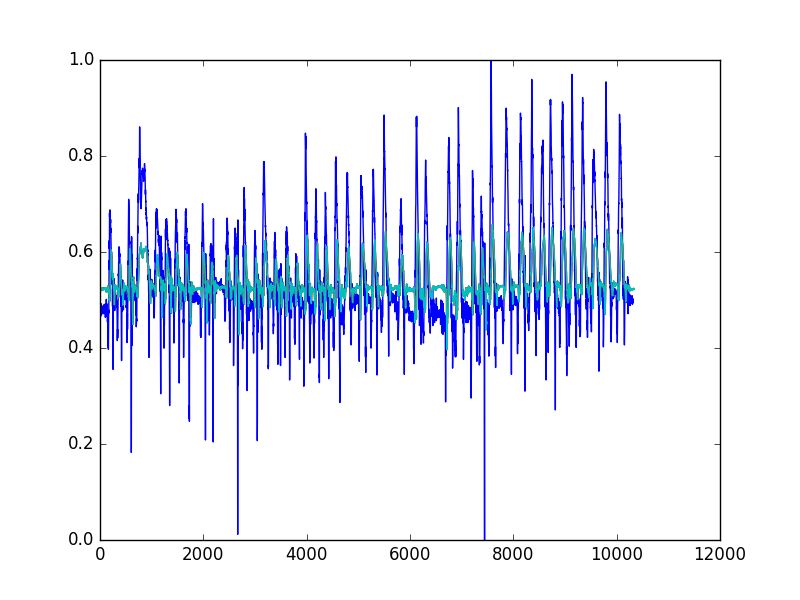
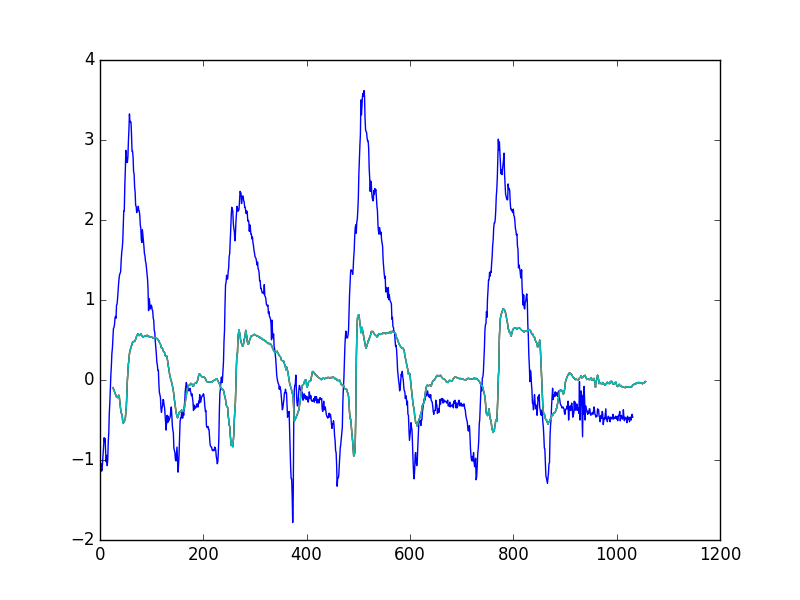
Using zero mean preprocessing as opposed to range preprocessing now

diff --git a/main.py b/main.py
@@ -5,29 +5,65 @@ from keras.metrics import mean_squared_error
 from keras.models import Sequential
 from numpy import genfromtxt
 import matplotlib.pyplot as plt
+from sklearn import preprocessing
 from sklearn.preprocessing import MinMaxScaler
 
 data = genfromtxt('data/layton_wild', delimiter=',')
 
 data = data[1:]
 
-scaler = MinMaxScaler(feature_range=(-1, 1))
-
 emg = data[::2, 1:2]
-emg = scaler.fit_transform(emg)
+# gives data zero mean
+emg = preprocessing.scale(emg)
 
 acc = data[1::2, 1:-1]
-acc = scaler.fit_transform(acc)
+# gives data zero mean
+acc = preprocessing.scale(acc)
 
 
-# plt.plot(emg)
-# plt.show()
+def plotWindow(target, predict, offset):
+    """
+    Shows plot in window
+    """ \
+        # just plot z axis for now
+    target = target[:, 2:3]
+    zPredict = predict[:, 2:3]
+
+    predictPlot = numpy.empty_like(acc)
+    predictPlot[:, :] = numpy.nan
+    predictPlot[offset:len(zPredict) + offset, :] = zPredict
+
+    # plot baseline and predictions
+    plt.plot(target, label='actual')
+    plt.plot(predictPlot, label='predict')
+
+    plt.show()
+
+
+def plotFile(target, predict, offset):
+    """
+    Writes plot to image file. Just showing a small part of the x-axis so it's big enough to see.
+    """
+
+    cutoffFrac = 0.9
+    cutoffNum = int(cutoffFrac * len(target))
+
+    # just plot z axis for now
+    target = target[cutoffNum:, 2:3]
+    zPredict = predict[cutoffNum:, 2:3]
+
+    predictPlot = numpy.empty_like(acc)
+    predictPlot[:, :] = numpy.nan
+    predictPlot[offset:len(zPredict) + offset, :] = zPredict
+
+    # plot baseline and predictions
+    plt.plot(target, label='actual')
+    plt.plot(predictPlot, label='predict')
+
+    plt.savefig('graph.png')
 
 
 def recurrent_model():
-    # Epoch 30000/30000
-    # 0s - loss: 0.6794 - acc: 0.5000
-
     features = 4
     output_dim = 3
     look_back = 25
@@ -40,12 +76,6 @@ def recurrent_model():
             X_rec[i, j, :] = numpy.append(acc[j + i], emg[j + i])
         Y_rec[i] = acc[i + look_back][:]
 
-    # train_samples = int(testcases * 0.66)
-    # X_rec_train = X_rec[:train_samples, :, :]
-    # X_rec_test = X_rec[train_samples:, :, :]
-    # Y_rec_train = Y_rec[:train_samples]
-    # Y_rec_test = Y_rec[train_samples:]
-
     model = Sequential()
     model.add(LSTM(output_dim, input_dim=features))
     # Compile model
@@ -55,30 +85,9 @@ def recurrent_model():
 
     # make predictions
     predict = model.predict(X_rec)
-    # invert predictions
-    # predict = scaler.inverse_transform(predict)
-    # Y = scaler.inverse_transform([Y_rec])
-    # predict = scaler.inverse_transform(predict)
-    # Y = scaler.inverse_transform([Y])
-    # calculate root mean squared error
-    # trainScore = numpy.sqrt(mean_squared_error(Y_rec[0], predict[:, 0]))
-    # print('Train Score: %.2f RMSE' % (trainScore))
 
-    # shift train predictions for plotting
-    target = Y_rec[:, 2:3]
-    zPredict = predict[:, 2:3]
-
-    trainPredictPlot = numpy.empty_like(acc)
-    trainPredictPlot[:, :] = numpy.nan
-    trainPredictPlot[look_back:len(zPredict) + look_back, :] = zPredict
-
-    # plot baseline and predictions
-    plt.plot(target, label='actual')
-    plt.plot(trainPredictPlot, label='predict')
-
-    plt.savefig('graph.png')
-
-    plt.show()
+    plotFile(Y_rec, predict, look_back)
+    plotWindow(Y_rec, predict, look_back)
 
 
 recurrent_model()
